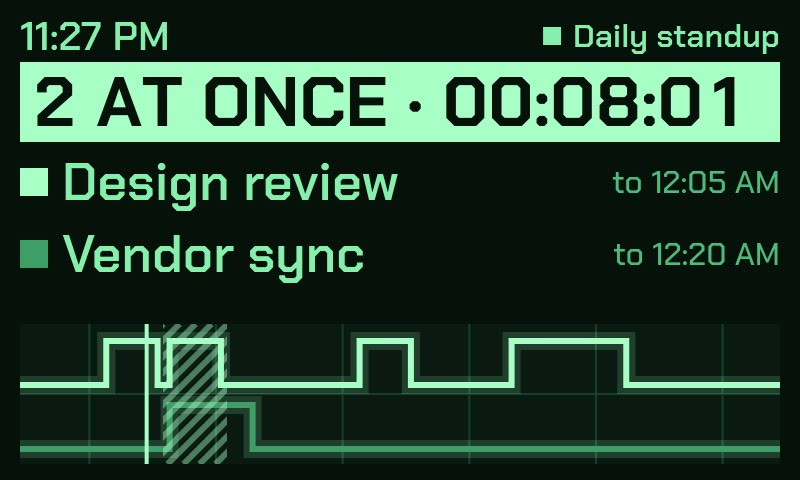
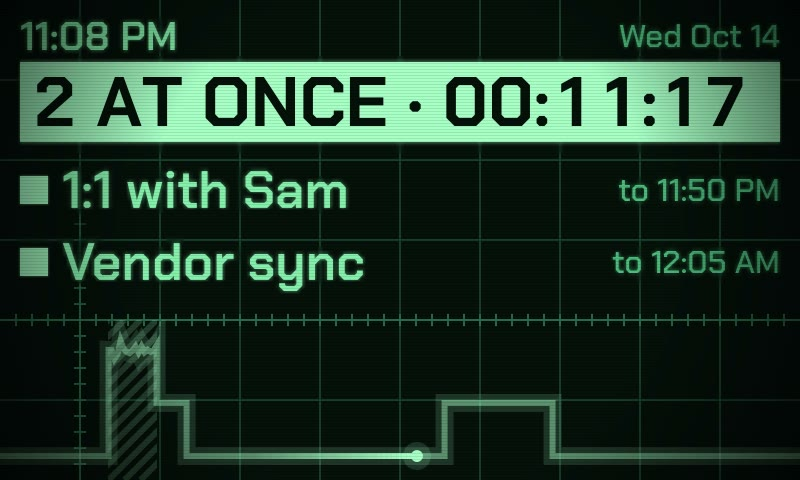
deskcal: the scope-screen redesign and the screensaver
Fresh screenshots from the README, a new one of the Lissajous screensaver,
and copy for the full-face graticule, interference on clashes, and the
quiet-stretch screensaver. The screensaver joins the image sync.

diff --git a/projects/deskcal.html b/projects/deskcal.html
@@ -59,12 +59,13 @@
             <p>The feed carries only what the display draws: titles, times, locations and which video call it is. No attendee names, no emails, and descriptions are cut down to their links before they leave the account.</p>
 
             <h3>The day as a waveform</h3>
-            <p>The screen is laid out like a logic analyzer. Up top, an <code>hh:mm:ss</code> countdown to the next meeting and its title. Underneath, the next few hours as a trace where every pulse is a meeting and the cursor is now. Double-book me and it becomes a collision: a banner, both meetings listed, and a second trace with the overlap hatched.</p>
+            <p>The whole face is a scope screen: a graticule edge to edge, phosphor bloom on the text, faint scanlines and dark corners. Up top, an <code>hh:mm:ss</code> countdown to the next meeting and its title. Underneath, the next six hours on the graticule's own timebase, 40 minutes a division, where every pulse is a meeting and a beam sweeps along the trace.</p>
+            <p>Double-book me and it becomes a collision. The banner lists everyone involved (up to three, then "+N more"), and the trace steps up once for each meeting at once and buzzes with interference across the overlap.</p>
             <div class="grid2 screens">
-                <figure><img src="/assets/projects/deskcal/screen.jpg" alt="The display in demo mode: 11:27 PM, a countdown reading 00:08:01, 'Design review, 11:35 PM to 12:05 AM, Meet', and a square-wave trace of the next few hours"><figcaption class="cap">Demo schedule: eight minutes to a design review</figcaption></figure>
-                <figure><img src="/assets/projects/deskcal/collision.jpg" alt="The display with a '2 AT ONCE' banner above Design review and Vendor sync, and two traces with the overlapping stretch hatched"><figcaption class="cap">Double-booked. The hatching is the part I can't attend twice.</figcaption></figure>
+                <figure><img src="/assets/projects/deskcal/screen.jpg" alt="The display in demo mode on a full-screen graticule: 11:08 PM, a countdown reading 00:07:17, 'Design review, 11:16 to 11:46 PM, Meet', and a glowing square-wave trace of the next six hours"><figcaption class="cap">Demo schedule: seven minutes to a design review</figcaption></figure>
+                <figure><img src="/assets/projects/deskcal/collision.jpg" alt="The display with a '2 AT ONCE · 00:11:17' banner above '1:1 with Sam' and 'Vendor sync', and the trace stepped up and jagged with interference over the hatched overlap"><figcaption class="cap">Double-booked. The trace buzzes where I'd have to be in two places.</figcaption></figure>
             </div>
-            <p>The panel is about 70 × 50 mm, so nothing is drawn smaller than 32 px. All-day events, cancellations, working-location and out-of-office entries, and anything I declined never make it to the screen.</p>
+            <p>The panel is about 70 × 50 mm, so nothing is drawn smaller than 32 px, and nothing at all goes on the very edges, which this panel smears into a bar. All-day events, cancellations, working-location and out-of-office entries, and anything I declined never make it to the screen.</p>
 
             <h3>Alerts</h3>
             <div class="parts">
@@ -74,6 +75,10 @@
                 <div><span class="p">Restarted mid-meeting</span><span class="d">Alerts more than 90 seconds stale are skipped, not played late</span></div>
             </div>
             <p>The chimes are synthesized in code, so there are no audio files to ship. There are three to pick from: bells, bench-instrument beeps, and the buzz of an old computer terminal.</p>
+
+            <h3>Quiet stretches</h3>
+            <p>When nothing is on and the next meeting is more than six hours off, the screen drops to the time, the date and a slowly morphing Lissajous figure. Tap it and the full view comes back for 30 seconds.</p>
+            <figure class="figure photo"><img src="/assets/projects/deskcal/screensaver.jpg" alt="The screensaver: 11:08 PM and Wednesday, October 14 above a looping Lissajous figure traced on the graticule"><figcaption class="cap">The screensaver. Still technically measuring something.</figcaption></figure>
 
             <h3>When the network goes away</h3>
             <p>The last good download is kept on disk. A Wi-Fi blip, or booting before Wi-Fi is up, shows the schedule it already had with a red OFFLINE flag next to the clock, not a blank screen. A broken deployment answers with a sign-in page where the JSON should be, so the feed has to parse before it's allowed to replace the cache.</p>
